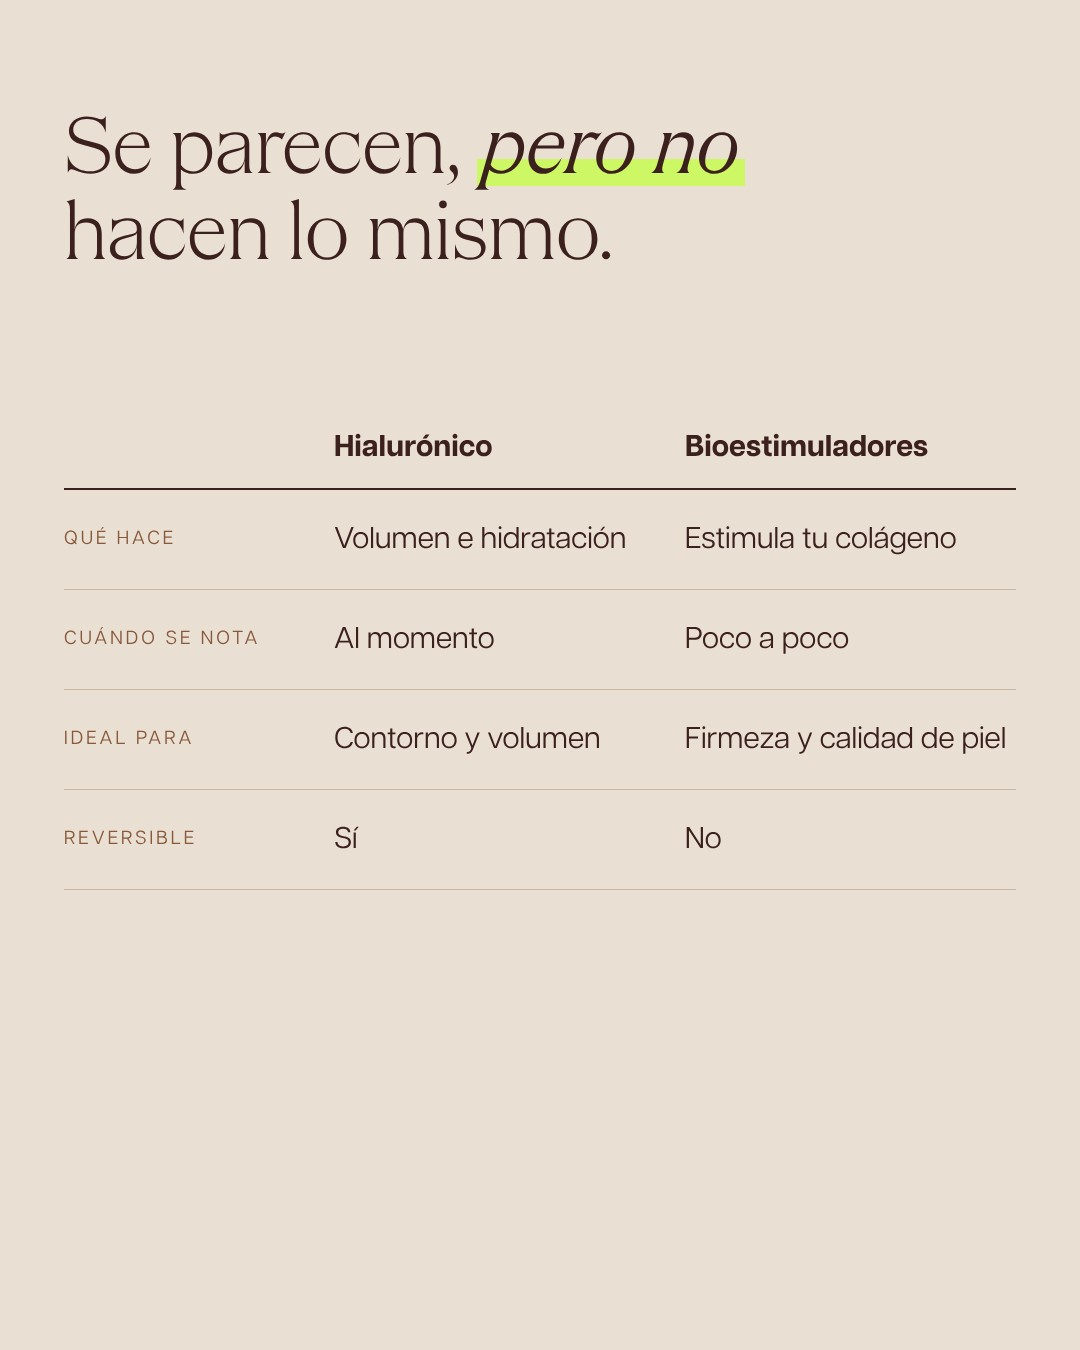
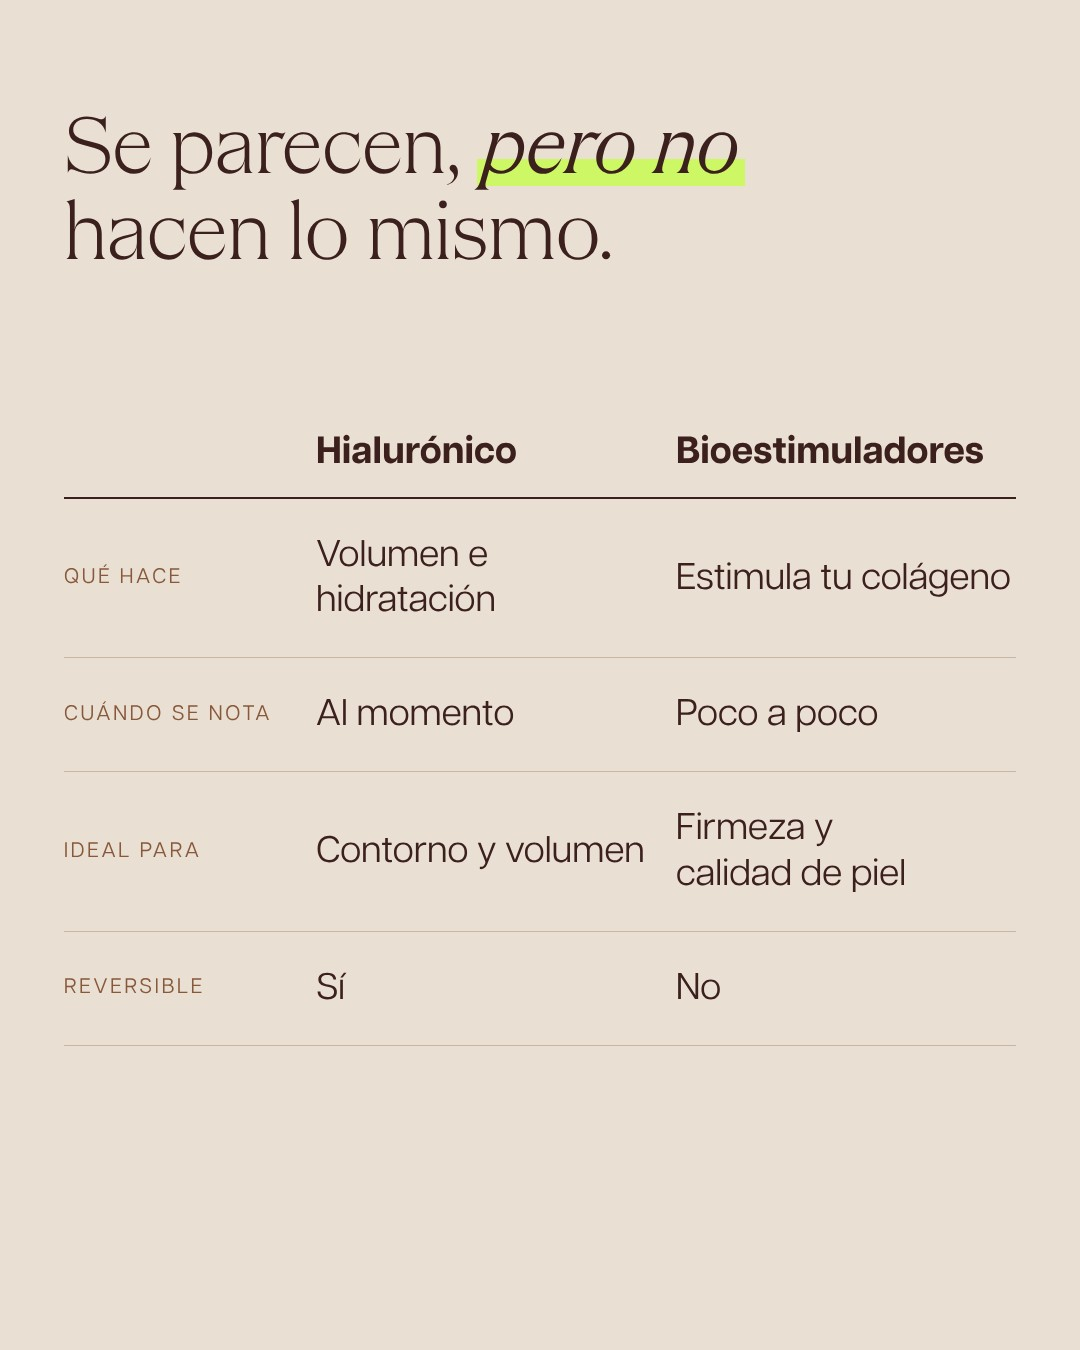
Calendario noviembre: tabla de la slide 4 del 14 más grande
Claude-Session: https://claude.ai/code/session_01JZ4qrB4vBJCM1LriYw1bZU

diff --git a/public/pitch/skin-laundry-calendario/noviembre/index.html b/public/pitch/skin-laundry-calendario/noviembre/index.html
@@ -686,7 +686,7 @@ Reserva tu cita desde el enlace de la bio.
 📍 Av. Diagonal 610, Barcelona
 #Neuromoduladores #MitosYVerdades #MedicinaEsteticaBarcelona #SkinLaundryBarcelona` },
 
-{ d:14, formato:"Carrusel", estado:"listo", storyImg:"/pitch/skin-laundry-calendario/noviembre/img/st_14.jpg?v=11120146", cubo:"Med. estética", tema:"Hialurónico", hora:"11:00h", media:"/pitch/skin-laundry-calendario/noviembre/img/d14_hy_1.jpg?v=11121320", slides:["/pitch/skin-laundry-calendario/noviembre/img/d14_hy_1.jpg?v=11121320","/pitch/skin-laundry-calendario/noviembre/img/d14_hy_2.jpg?v=11121329","/pitch/skin-laundry-calendario/noviembre/img/d14_hy_3.jpg?v=11121329","/pitch/skin-laundry-calendario/noviembre/img/d14_hy_4.jpg?v=11121325","/pitch/skin-laundry-calendario/noviembre/img/d14_hy_5.jpg?v=11121325"],
+{ d:14, formato:"Carrusel", estado:"listo", storyImg:"/pitch/skin-laundry-calendario/noviembre/img/st_14.jpg?v=11120146", cubo:"Med. estética", tema:"Hialurónico", hora:"11:00h", media:"/pitch/skin-laundry-calendario/noviembre/img/d14_hy_1.jpg?v=11121320", slides:["/pitch/skin-laundry-calendario/noviembre/img/d14_hy_1.jpg?v=11121320","/pitch/skin-laundry-calendario/noviembre/img/d14_hy_2.jpg?v=11121329","/pitch/skin-laundry-calendario/noviembre/img/d14_hy_3.jpg?v=11121329","/pitch/skin-laundry-calendario/noviembre/img/d14_hy_4.jpg?v=11121339","/pitch/skin-laundry-calendario/noviembre/img/d14_hy_5.jpg?v=11121325"],
   pieza:"Hialurónico vs. bioestimuladores",
   base:"Carta: volumen y calidad de piel", cta:"Consulta previa con nuestros médicos",
   nota:"Fotos de modelo: confirmar que son de Canto o de un shooting con derechos · contenido médico pendiente de revisión por la doctora",
